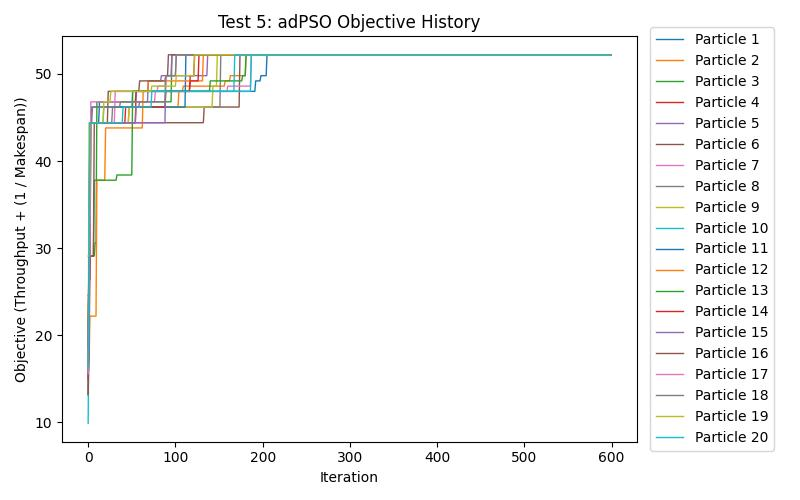
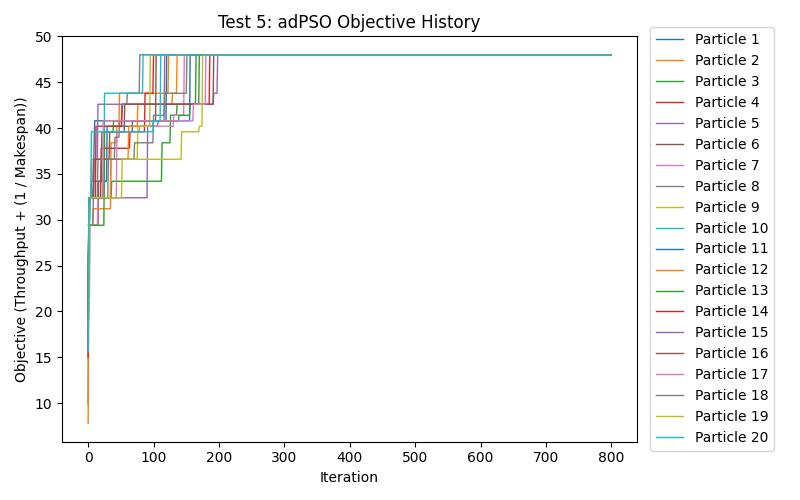
script now enables easy testing of custom setup or hcsp setup

diff --git a/plot_objective_history.py b/plot_objective_history.py
@@ -27,7 +27,7 @@ if __name__ == '__main__':
 
   csvData = open(args.data_path, 'rb')
   data = np.loadtxt(csvData, delimiter='\t')
-  fname = f"./plots/test{args.test}_objective_history.jpg"
+  fname = f"./plots/test_{args.test}_objective_history.jpg"
   plot(args.test, data, fname)
 
   print(f"Completed")

diff --git a/psoscheduler/src/main/java/syslab/cloudcomputing/schedule/Scheduler.java b/psoscheduler/src/main/java/syslab/cloudcomputing/schedule/Scheduler.java
@@ -15,7 +15,7 @@ public class Scheduler {
         DataCenter dataCenter;
         Workload workload;
 
-        if (args[0].equals("hcsp")) {
+        if (args[0].equals("HCSP")) {
             String pathname = "Braun_et_al/" + args[1];
             int nVirtualMachines = 16;
             int nTasks = 512;

diff --git a/psoscheduler/src/main/java/syslab/cloudcomputing/pso/PSOSwarm.java b/psoscheduler/src/main/java/syslab/cloudcomputing/pso/PSOSwarm.java
@@ -13,7 +13,7 @@ public class PSOSwarm {
   private final double w1 = 0.9;
   private final double w2 = 0.4;
 
-  private final int maxIterations = 1000;
+  private final int maxIterations = 800;
   private static final int nSwarms = 5;
   private static final int nParticles = 20;
 
